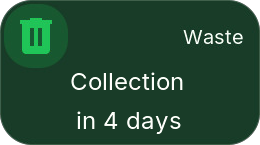
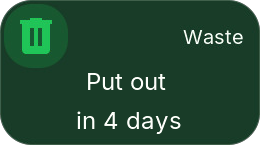
Show the waste example as put out in 4 days and put out today
The sensor says when to put the bin out. Add the red tile for today, with
the icon, circle and tile tinted in the rule's red.

Changed region(s): [[0.2462, 0.4966, 0.7077, 0.6345]]

diff --git a/docs/web-admin.md b/docs/web-admin.md
@@ -112,12 +112,18 @@ While a rule matches, it wins. Otherwise the icon and tile colors above apply. W
 <div class="ht-illustrated-intro" markdown>
 <div markdown>
 
-In this example, a waste collection sensor reports text such as "Collection in 4 days". Its icon turns red while the state contains "today" and green while it contains "4". With **Tile color → From icon**, the tile follows the icon color.
+In this example, a waste sensor says when to put the bin out, such as "Put out in 4 days". Its icon turns red while the state contains "today" and green while it contains "4". With **Tile color → From icon**, the circle and the tile follow the icon color.
 
-<figure class="ht-screenshot ht-editor-detail">
-<img src="../images/8in-waste-tile.png" alt="Waste tile with a green icon for collection in four days" width="260" height="145" loading="lazy">
-<figcaption>The state contains "4": green</figcaption>
+<div class="ht-popup-grid" markdown>
+<figure class="ht-screenshot">
+<img src="../images/8in-waste-tile.png" alt="Waste tile with a green icon: put out in four days" width="260" height="145" loading="lazy">
+<figcaption>Contains "4": green</figcaption>
 </figure>
+<figure class="ht-screenshot">
+<img src="../images/8in-waste-tile-today.png" alt="Waste tile tinted red: put out today" width="260" height="145" loading="lazy">
+<figcaption>Contains "today": red</figcaption>
+</figure>
+</div>
 
 </div>
 <figure class="ht-screenshot ht-editor-detail">
